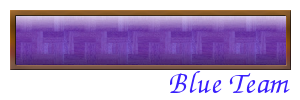
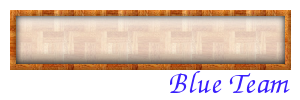
拠点HP表示調整
画像の調整
ゲージの空の部分を黒に

diff --git a/CanvasUI.cpp b/CanvasUI.cpp
@@ -45,10 +45,10 @@ void CanvasUI::DrawInitialize(){
 	handle[6]=image_Load("Data/image/exp_bar.png");
 
 	//HPbar 10-13
-	handle[10]=image_Load("Data/image/HP_bar_back.png");//下地B
-	handle[11]=image_Load("Data/image/HP_bar_back_Red.png");//下地R
-	handle[12]=image_Load("Data/image/HP_bar_tex.png");//質感
-	handle[13]=image_Load("Data/image/HP_bar_frame.png");//枠
+	handle[10]=image_Load("Data/image/HP_bar_B.png");//Blue
+	handle[11]=image_Load("Data/image/HP_bar_R.png");//Red
+	//handle[12]=image_Load("Data/image/HP_bar_tex.png");//質感
+	//handle[13]=image_Load("Data/image/HP_bar_frame.png");//枠
 
 	//Wallinfo
 	handle[14]=image_Load("Data/image/wall_info.png");//壁情報
@@ -134,19 +134,23 @@ void CanvasUI::Draw() {
 	glColor3d(1.0,0.2,0.2);//赤指定
 	if((time-dam)==0) glColor3d(1.0,1.0,1.0);
 	rect_Draw2D(handle[11],10+shakeX,10+shakeY,280*0.01*a,60);//ゲージ描画
-	image_DrawExRota(handle[11],150+shakeX,50+shakeY,0,1);//背景
+	glColor3d(0.2,0.2,0.2);//黒指定
+	rect_Draw2D(handle[11],10+shakeX+(280*0.01*a),10+shakeY,280*(1-0.01*a),60);//裏ゲージ描画
+	image_DrawExRota(handle[11],150+shakeX,50+shakeY,0,1);//HPバー
 
-	image_DrawExRota(handle[12],150+shakeX,50+shakeY,0,1);//ハイライト,質感
-	image_DrawExRota(handle[13],150+shakeX,50+shakeY,0,1);//枠
+	//image_DrawExRota(handle[12],150+shakeX,50+shakeY,0,1);//ハイライト,質感
+	//image_DrawExRota(handle[13],150+shakeX,50+shakeY,0,1);//枠
 
 	//敵陣HP
 	glColor3d(0.2,0.2,1.0);//青指定
 	if((time-dam)==0) glColor3d(1.0,1.0,1.0);
 	rect_Draw2D(handle[9],1190-280*0.01*a+shakeX,10+shakeY,280*0.01*a,60);//ゲージ描画
-	image_DrawExRota(handle[10],1050+shakeX,50+shakeY,0,1);//背景
+	glColor3d(0.2,0.2,0.2);//黒指定
+	rect_Draw2D(handle[9],910+shakeX,10+shakeY,280*(1-0.01*a),60);//裏ゲージ描画
+	image_DrawExRota(handle[10],1050+shakeX,50+shakeY,0,1);//HPバー
 
-	image_DrawExRota(handle[12],1050+shakeX,50+shakeY,0,1);//ハイライト、質感
-	image_DrawExRota(handle[13],1050+shakeX,50+shakeY,0,1);//枠
+	//image_DrawExRota(handle[12],1050+shakeX,50+shakeY,0,1);//ハイライト、質感
+	//image_DrawExRota(handle[13],1050+shakeX,50+shakeY,0,1);//枠
 
 
 	//レベル表示
